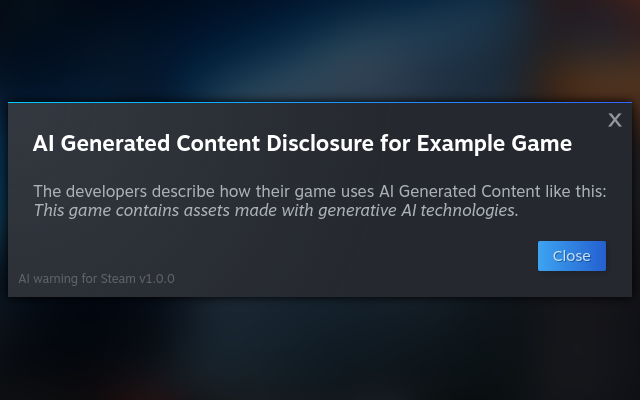
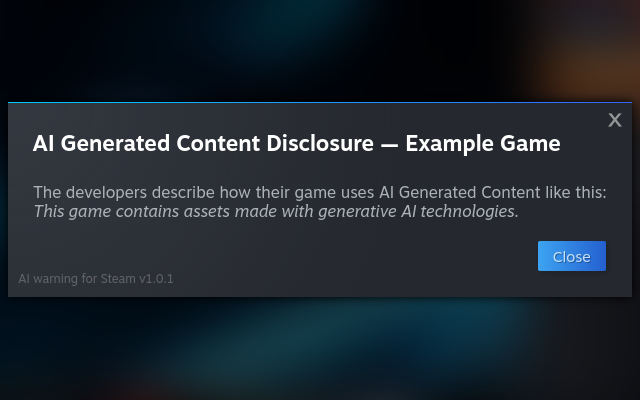
replaced untranslated string with punctuation

diff --git a/aiwarningforsteam.user.js b/aiwarningforsteam.user.js
@@ -1,7 +1,7 @@
 // ==UserScript==
 // @name         AI warning for Steam
 // @namespace    https://github.com/seeeeew/aiwarningforsteam
-// @version      1.0.0
+// @version      1.0.1
 // @description  Shows the AI Generated Content Disclosure on Steam store pages as a modal popup.
 // @author       seeeeew
 // @homepage     https://github.com/seeeeew/aiwarningforsteam
@@ -159,7 +159,7 @@
 		const container = document.createElement("div");
 		container.classList.add("aiwarning_container");
 		const appname = document.querySelector("#appHubAppName")?.textContent;
-		const title = header.innerHTML + (appname ? " for " + appname : "");
+		const title = header.innerHTML + (appname ? " — " + appname : "");
 		container.innerHTML = `
 			<div class="newmodal">
 				<div class="modal_top_bar"></div>
